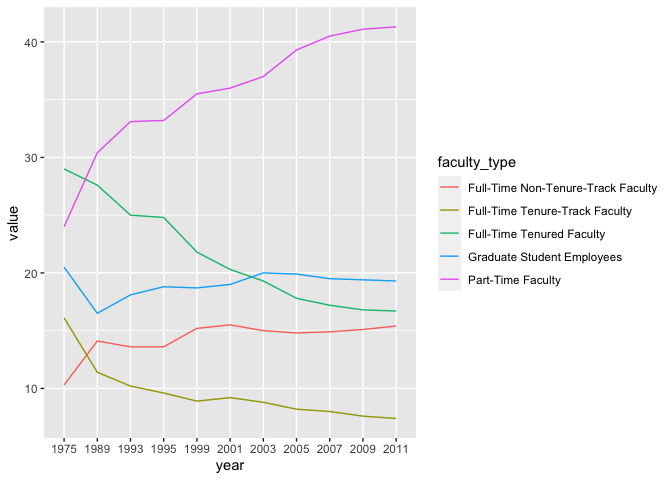
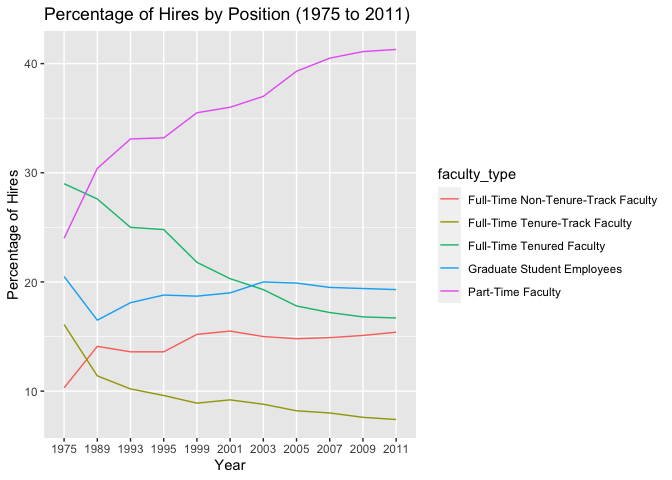
completed Instructional Staff Employment Trends exercise

diff --git a/lab-06.md b/lab-06.md
@@ -51,10 +51,19 @@ staff_long %>%
     group = faculty_type,
     color = faculty_type
   )) +
+  labs (x = "Year",
+        y = "Percentage of Hires",
+        title = "Percentage of Hires by Position (1975 to 2011)") +
   geom_line()
 ```
 
 ![](lab-06_files/figure-gfm/line-graph-group-1.png)<!-- -->
+
+If the objective of this plot was to show that the proportion of
+part-time faculty had gone up compared to other positions, I would make
+all of the lines one color except for the part-time faculty line to make
+it stand out. I would also change the title to highlight the comparison
+between part-time hires and other positions.
 
 ### Exercise 2
 
